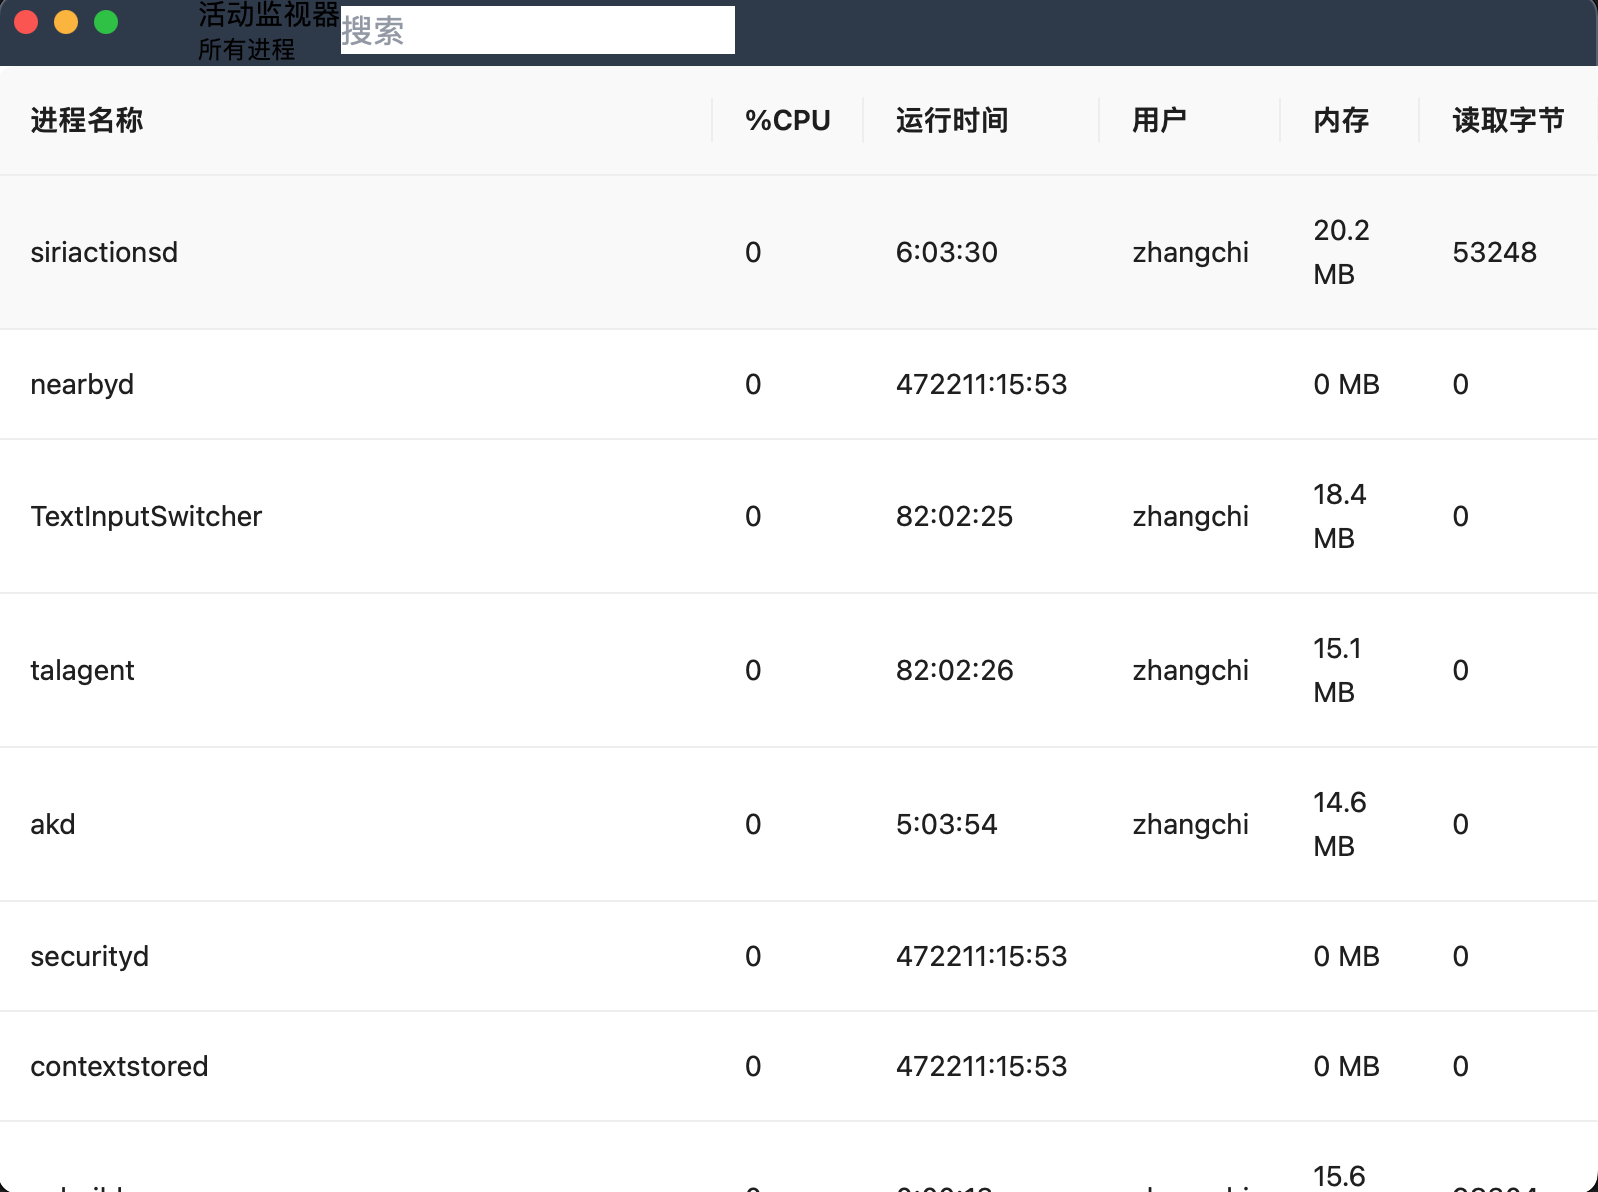
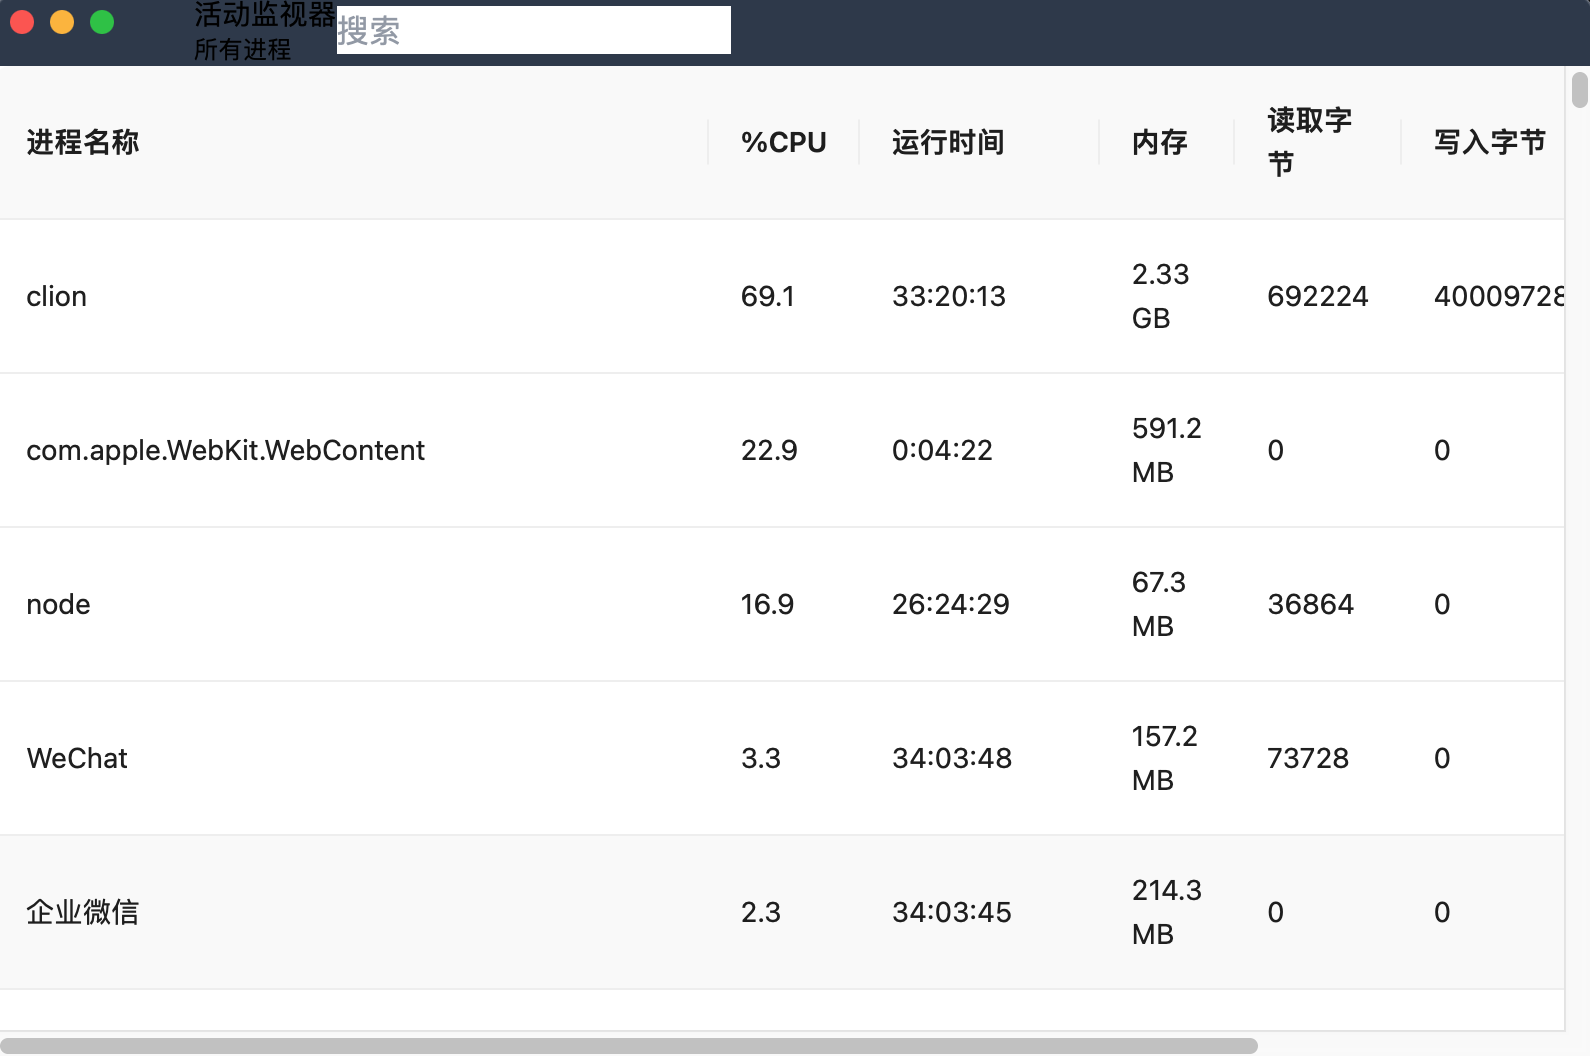
fix: style

diff --git a/src/App.vue b/src/App.vue
@@ -22,11 +22,6 @@ const columns = ref([
         key: 'runTimeStr',
     },
     {
-        title: '用户',
-        dataIndex: 'userName',
-        key: 'userName',
-    },
-    {
         title: '内存',
         dataIndex: 'memoryStr',
         key: 'memoryStr',
@@ -40,6 +35,11 @@ const columns = ref([
         title: '写入字节',
         dataIndex: 'writtenBytes',
         key: 'writtenBytes',
+    },
+    {
+        title: '用户',
+        dataIndex: 'userName',
+        key: 'userName',
     },
     {
         title: 'PID',
@@ -105,8 +105,8 @@ onUnmounted(() => {
 
 <template>
     <TitleBar :callFindProcess="callFindProcess" />
-    <div class="relative">
-        <div class="flex-grow overflow-x-scroll">
+    <div class="relative flex-grow overflow-x-scroll">
+        <div>
             <a-table id="list-table" :dataSource="tableData" :columns="columns" :pagination="false"/>
         </div>
         <div class="menu" :style="menuStyle" @click="onKill">kill</div>
